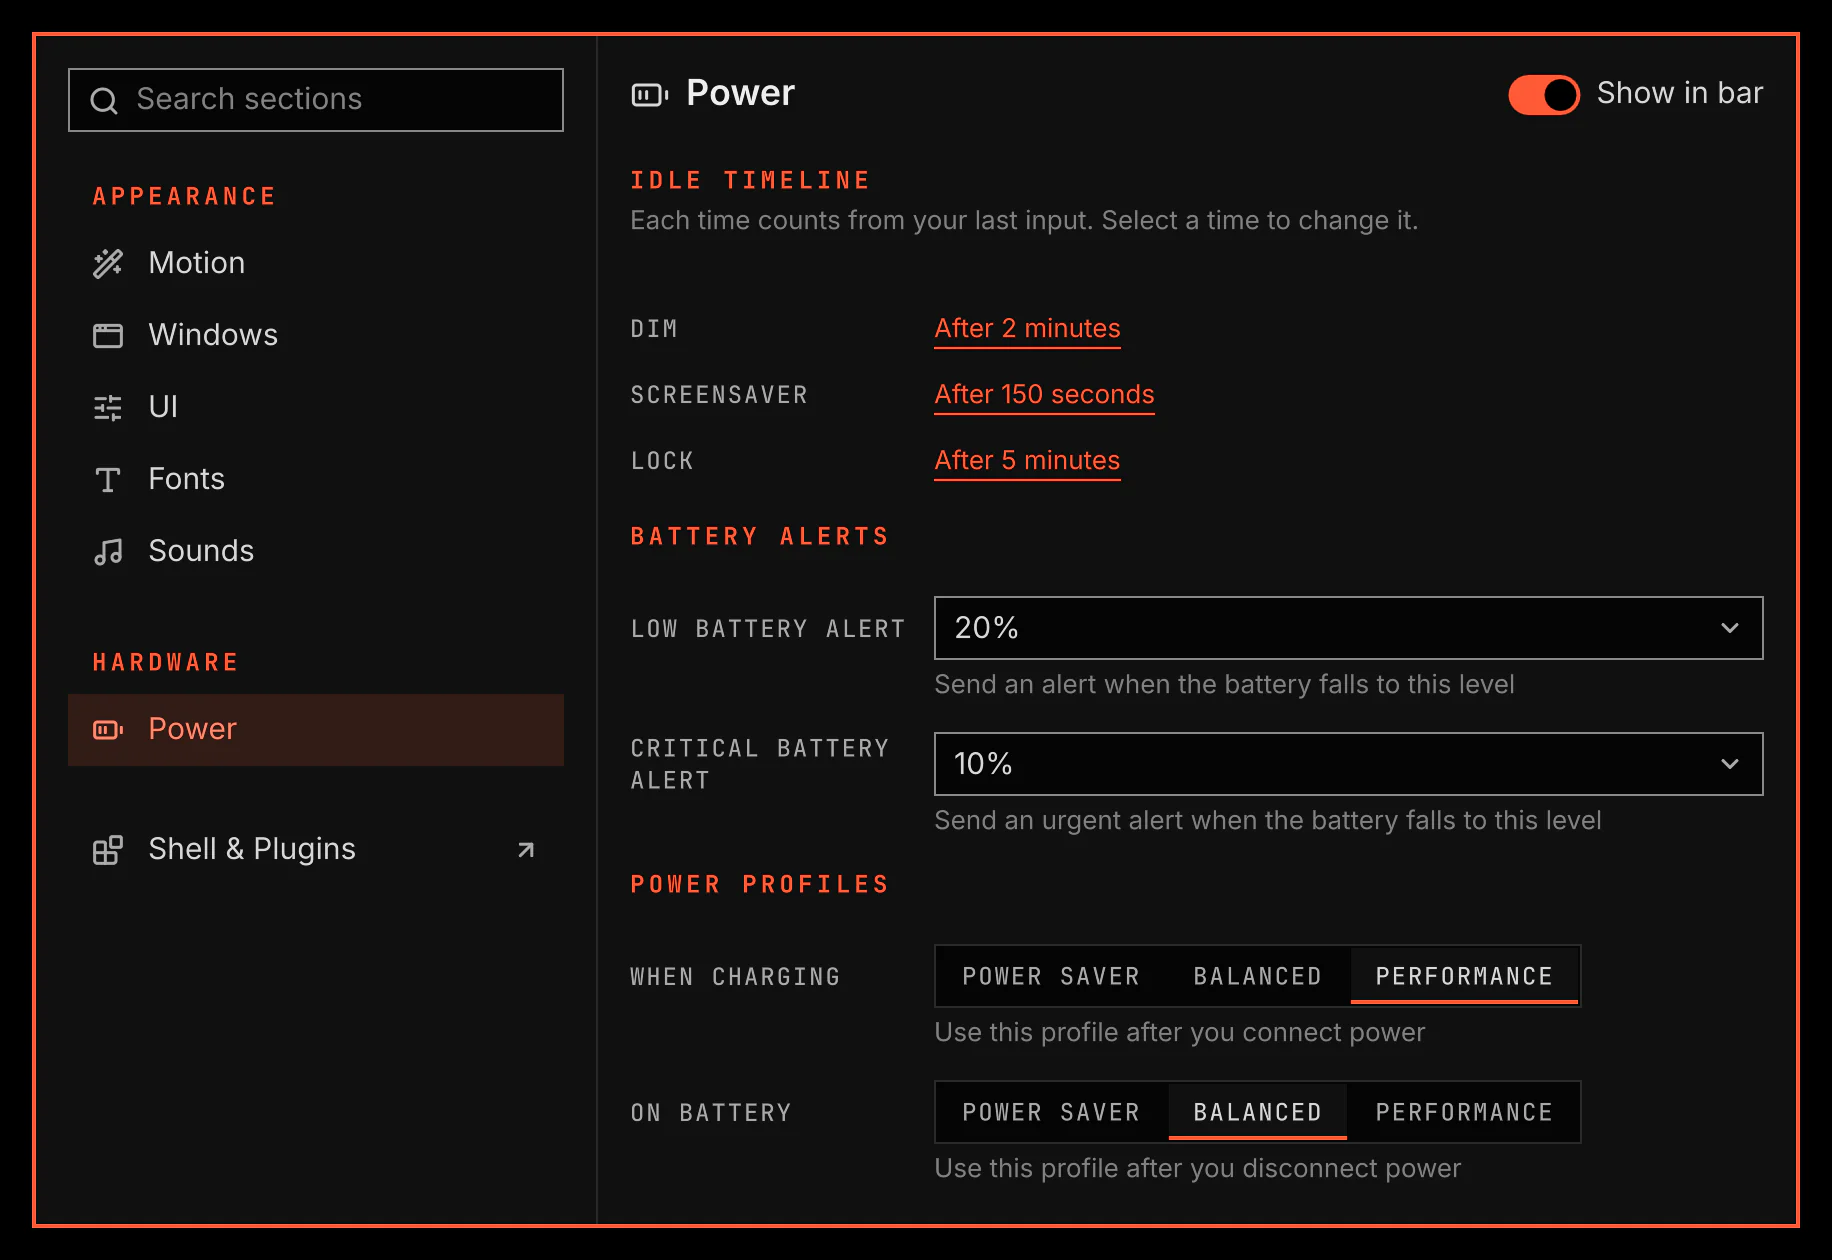
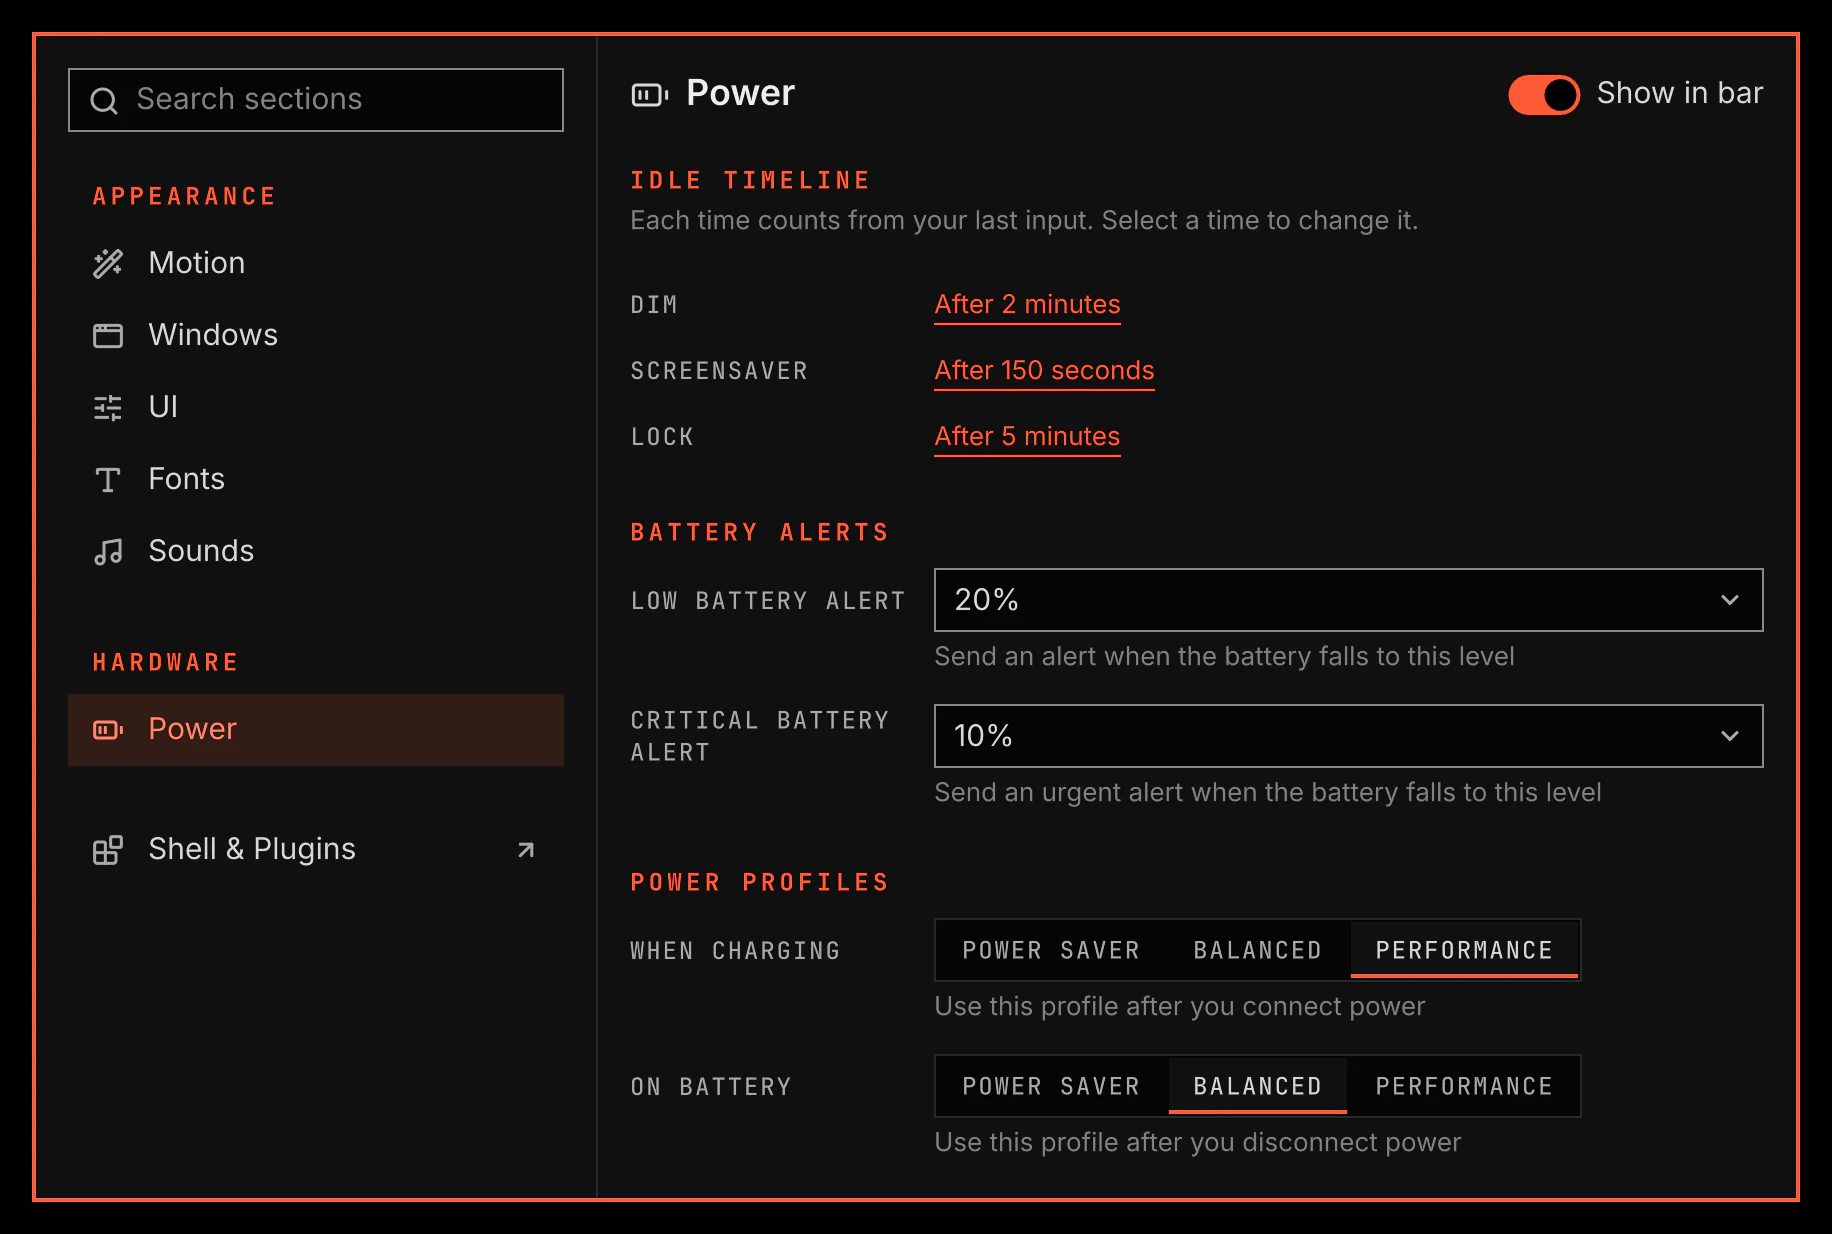
fix(VGS-1899): read power profiles once a scan finds them, section the pane
Address PR review

Installing the profiles package only makes the D-Bus name activatable, which changes no owner, so the gdbus watch stays silent. The service now reads again when a scan stops listing the service as missing; GetAll then activates the daemon. Must-fail control: acme.power-once, with the scan read replaced by a log line, leaves the profiles unavailable after the scan; acme.power-quiet, same watch with the read kept, reads them.

The pane builds each block from qs.Ui Section, so every heading gets stack.heading above it and a description a single stack.group below it. The power row now picks a segment by pointer and a list entry by keys and polls the stored value and the control's mark. The Power shot scene captures the plugin page's tabs with Power on, with and without the profiles service.

Claude-Session: https://claude.ai/code/session_0135RiuGQo3RcgBxMLE7JE4C

diff --git a/shell/plugins/vgs.power/Pane.qml b/shell/plugins/vgs.power/Pane.qml
@@ -99,31 +99,29 @@ FocusScope {
     implicitHeight: content.implicitHeight
     focus: true
 
-    // Each Repeater delegate sizes from this column's id, not its parent:
-    // the holder's teardown unparents a delegate while its bindings still
-    // run, and a parent read there is a TypeError the log keeps (the
-    // system-window row's log check).
+    // Each Repeater delegate sizes from an id, not its parent: the
+    // holder's teardown unparents a delegate while its bindings still run,
+    // and a parent read there is a TypeError the log keeps (the
+    // system-window row's log check). Each Section measures its own
+    // `stack.heading` above it, less this column's spacing, which is the
+    // problem line's space.
     Column {
         id: content
         width: root.width
         spacing: Theme.stack.group
 
-        SectionHeader {
-            width: parent.width
-            text: "Idle timeline"
+        Section {
+            id: timeline
+            width: content.width
+            title: "Idle timeline"
             description: "Each time counts from your last input. Select a time to change it."
-        }
-
-        Column {
-            width: parent.width
-            spacing: Theme.stack.row
 
             Repeater {
                 model: root.stages
 
                 FormRow {
                     required property var modelData
-                    width: content.width
+                    width: timeline.width
                     label: root.stageText[modelData.stage].label
                     warning: root.beforeText(modelData)
 
@@ -137,7 +135,7 @@ FocusScope {
 
             Label {
                 visible: root.stages.length === 0
-                width: parent.width
+                width: timeline.width
                 role: "hint"
                 text: "Nothing happens when you stop using the computer."
                 wrapMode: Text.Wrap
@@ -147,61 +145,51 @@ FocusScope {
         Repeater {
             model: root.groups
 
-            Column {
+            Section {
                 id: group
                 required property var modelData
                 readonly property var keys: modelData.keys.filter(key => root.shown(key))
                 visible: keys.length > 0
                 width: content.width
-                spacing: Theme.stack.group
+                title: modelData.name
 
-                SectionHeader {
-                    width: parent.width
-                    text: group.modelData.name
-                }
+                Repeater {
+                    model: group.keys
 
-                Column {
-                    width: parent.width
-                    spacing: Theme.stack.row
+                    Field {
+                        id: field
+                        required property string modelData
+                        readonly property var entry: root.schema[modelData]
+                        readonly property var choices: root.shell === null ? [] : root.choicesOf(modelData)
+                        readonly property int current: root.shell === null ? -1 : choices.findIndex(choice => choice.value === root.shell.settings[modelData])
+                        width: content.width
+                        inline: true
+                        label: entry.label
+                        hint: entry.description
 
-                    Repeater {
-                        model: group.keys
-
-                        Field {
-                            id: field
-                            required property string modelData
-                            readonly property var entry: root.schema[modelData]
-                            readonly property var choices: root.shell === null ? [] : root.choicesOf(modelData)
-                            readonly property int current: root.shell === null ? -1 : choices.findIndex(choice => choice.value === root.shell.settings[modelData])
-                            width: content.width
-                            inline: true
-                            label: entry.label
-                            hint: entry.description
-
-                            // The binding comes back after a choice, so the
-                            // control shows the value the configuration holds.
-                            SegmentedControl {
-                                visible: field.entry.type === "enum"
-                                model: field.choices.map(choice => choice.label)
-                                currentIndex: field.current
-                                Accessible.name: field.entry.label
-                                onActivated: index => {
-                                    root.configure(field.modelData, field.choices[index].value);
-                                    currentIndex = Qt.binding(() => field.current);
-                                }
+                        // The binding comes back after a choice, so the
+                        // control shows the value the configuration holds.
+                        SegmentedControl {
+                            visible: field.entry.type === "enum"
+                            model: field.choices.map(choice => choice.label)
+                            currentIndex: field.current
+                            Accessible.name: field.entry.label
+                            onActivated: index => {
+                                root.configure(field.modelData, field.choices[index].value);
+                                currentIndex = Qt.binding(() => field.current);
                             }
+                        }
 
-                            Select {
-                                visible: field.entry.type === "number"
-                                width: parent.width
-                                model: field.choices
-                                textRole: "label"
-                                currentIndex: field.current
-                                Accessible.name: field.entry.label
-                                onActivated: index => {
-                                    root.configure(field.modelData, field.choices[index].value);
-                                    currentIndex = Qt.binding(() => field.current);
-                                }
+                        Select {
+                            visible: field.entry.type === "number"
+                            width: parent.width
+                            model: field.choices
+                            textRole: "label"
+                            currentIndex: field.current
+                            Accessible.name: field.entry.label
+                            onActivated: index => {
+                                root.configure(field.modelData, field.choices[index].value);
+                                currentIndex = Qt.binding(() => field.current);
                             }
                         }
                     }
@@ -209,16 +197,11 @@ FocusScope {
             }
         }
 
-        Column {
+        Section {
             visible: root.profilesMissing
-            width: parent.width
-            spacing: Theme.stack.group
-
-            SectionHeader {
-                width: parent.width
-                text: "Power profiles"
-                description: "Install the power profiles service to switch between power saver, balanced and performance."
-            }
+            width: content.width
+            title: "Power profiles"
+            description: "Install the power profiles service to switch between power saver, balanced and performance."
 
             RowAction {
                 text: "Install power profiles"

diff --git a/shell/plugins/vgs.power/Service.qml b/shell/plugins/vgs.power/Service.qml
@@ -22,6 +22,15 @@ import "PowerLogic.js" as Logic
 // is not, and monitor writes each line to a pipe as it happens (runs on
 // GLib 2.88.3 against a mock daemon on a private bus), so the argv names no
 // address.
+//
+// Installing the daemon's package adds only its D-Bus activation file,
+// which makes the name activatable and changes no owner, so the watch
+// prints nothing, while bin/vgshell-scan counts an activatable name as
+// present. When a scan stops listing the service as missing, one more read
+// runs: its GetAll, a method call to an activatable name, starts the
+// daemon, and the watch then reports the new owner (dbus-daemon 1.16.2, a
+// private bus with a service directory and python-dbusmock 0.38.1 as the
+// activated daemon, 2026-10-19).
 Item {
     id: root
 
@@ -48,6 +57,7 @@ Item {
     readonly property string sourceKey: JSON.stringify({ ready: upowerReady, onBattery: UPower.onBattery })
     readonly property string profilesInterface: "org.freedesktop.UPower.PowerProfiles"
     readonly property var profilesBus: ["--system", "--dest", profilesInterface, "--object-path", "/org/freedesktop/UPower/PowerProfiles"]
+    readonly property bool profilesMissing: shell !== null && shell.requirements.missing.indexOf(profilesInterface) !== -1
 
     onShellChanged: {
         if (shell === null || registered) return;
@@ -63,6 +73,9 @@ Item {
     onViewKeyChanged: publish()
     onNoticeKeyChanged: checkNotices()
     onSourceKeyChanged: observeSource()
+    onProfilesMissingChanged: {
+        if (registered && !profilesMissing) readProfiles();
+    }
     Component.onCompleted: observeSource()
 
     Connections {
